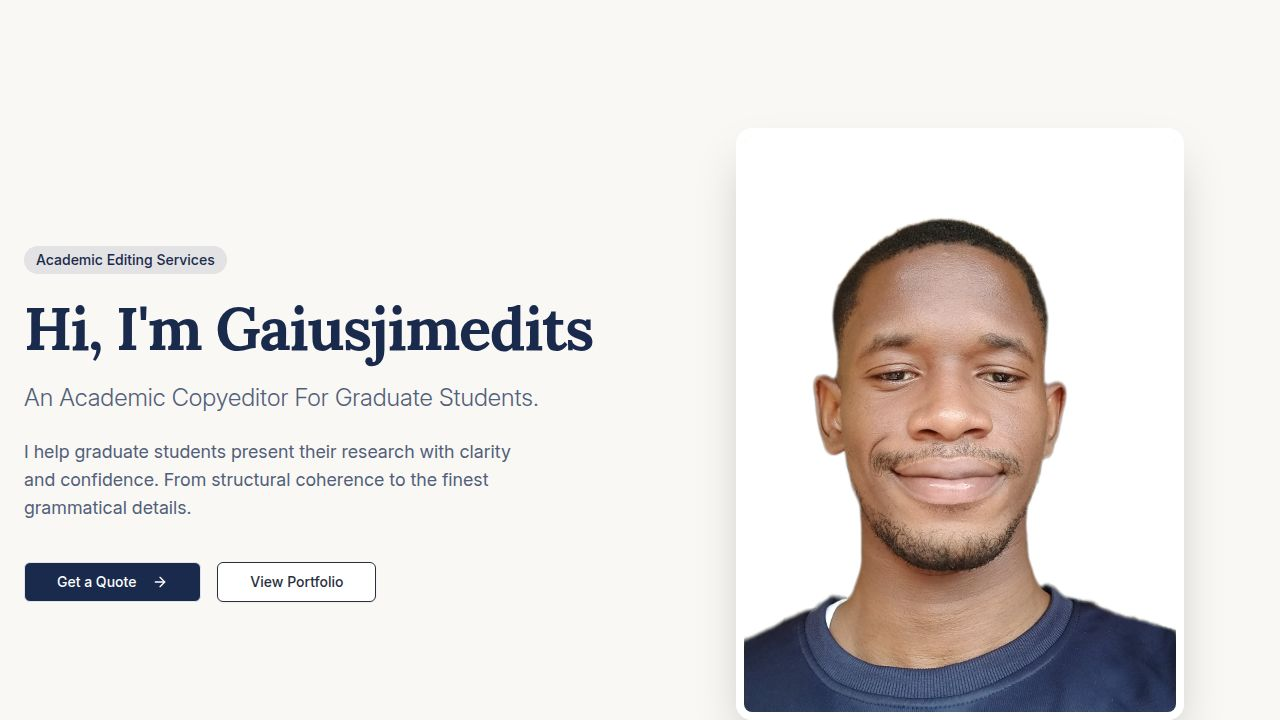
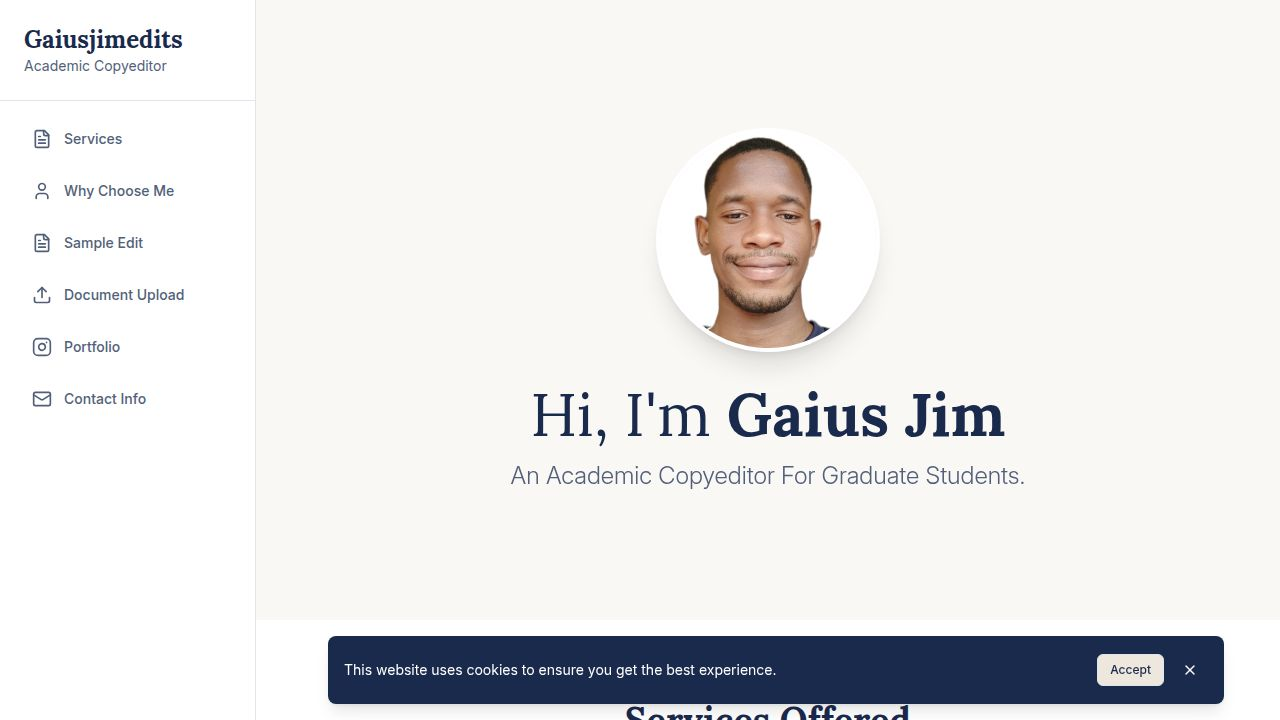
Update website with new hero image, contact form, and portfolio link
Replaces hero image in `hero.tsx`, updates portfolio link and section title in `portfolio.tsx`, modifies sidebar navigation and branding in `sidebar.tsx`, and adjusts content order in `home.tsx`.

Replit-Commit-Author: Agent
Replit-Commit-Session-Id: 56a94fab-71d1-4456-abf4-d811b467636b
Replit-Commit-Checkpoint-Type: full_checkpoint
Replit-Commit-Event-Id: 44c68f59-232e-4871-bdcd-e4b7319cfb65
Replit-Commit-Screenshot-Url: https://storage.googleapis.com/screenshot-production-us-central1/25380490-88ae-4bf0-86a6-6e2af1db7a43/56a94fab-71d1-4456-abf4-d811b467636b/8lZufJW
Replit-Helium-Checkpoint-Created: true

diff --git a/client/src/components/sidebar.tsx b/client/src/components/sidebar.tsx
@@ -10,7 +10,7 @@ const navItems = [
   { label: "Why Choose Me", href: "/#why-choose", icon: User },
   { label: "Sample Edit", href: "/#comparison", icon: FileText },
   { label: "Document Upload", href: "/#contact", icon: Upload },
-  { label: "Portfolio", href: "https://www.instagram.com/gaiusjimedits?igsh=bXNldGY1YmJkOGdm", icon: Instagram, external: true },
+  { label: "Portfolio", href: "/#portfolio", icon: Instagram },
   { label: "Contact Info", href: "/#footer", icon: Mail },
 ];
 
@@ -19,14 +19,10 @@ export function Sidebar() {
   const [isMobileOpen, setIsMobileOpen] = useState(false);
 
   const NavLink = ({ item }: { item: typeof navItems[0] }) => {
-    const Component = item.external ? "a" : "a";
-    const props = item.external 
-      ? { href: item.href, target: "_blank", rel: "noopener noreferrer" }
-      : { href: item.href, onClick: () => setIsMobileOpen(false) };
-
     return (
-      <Component
-        {...props}
+      <a
+        href={item.href}
+        onClick={() => setIsMobileOpen(false)}
         className={cn(
           "flex items-center gap-3 px-4 py-3 text-sm font-medium rounded-md transition-colors",
           "hover:bg-primary/10 hover:text-primary",
@@ -35,7 +31,7 @@ export function Sidebar() {
       >
         <item.icon className="h-5 w-5" />
         {item.label}
-      </Component>
+      </a>
     );
   };
 
@@ -43,7 +39,7 @@ export function Sidebar() {
     <>
       {/* Mobile Header */}
       <div className="lg:hidden fixed top-0 left-0 right-0 h-16 border-b bg-background/80 backdrop-blur-md z-50 flex items-center justify-between px-4">
-        <span className="font-serif font-bold text-xl text-primary">Gaius Jim</span>
+        <span></span>
         <Sheet open={isMobileOpen} onOpenChange={setIsMobileOpen}>
           <SheetTrigger asChild>
             <Button variant="ghost" size="icon">
@@ -53,7 +49,7 @@ export function Sidebar() {
           <SheetContent side="left" className="w-[300px] sm:w-[400px] p-0">
             <div className="flex flex-col h-full bg-background border-r">
               <div className="p-6 border-b">
-                <h2 className="font-serif font-bold text-2xl text-primary">Gaius Jim</h2>
+                <h2 className="font-serif font-bold text-2xl text-primary">Gaiusjimedits</h2>
                 <p className="text-sm text-muted-foreground">Academic Copyeditor</p>
               </div>
               <nav className="flex-1 p-4 space-y-2">
@@ -71,7 +67,7 @@ export function Sidebar() {
         <div className="p-6 border-b">
           <Link href="/">
             <a className="block">
-              <h2 className="font-serif font-bold text-2xl text-primary">Gaius Jim</h2>
+              <h2 className="font-serif font-bold text-2xl text-primary">Gaiusjimedits</h2>
               <p className="text-sm text-muted-foreground">Academic Copyeditor</p>
             </a>
           </Link>
@@ -81,9 +77,6 @@ export function Sidebar() {
             <NavLink key={item.label} item={item} />
           ))}
         </nav>
-        <div className="p-4 border-t text-xs text-muted-foreground text-center">
-          &copy; {new Date().getFullYear()} Gaius Jim
-        </div>
       </div>
     </>
   );

diff --git a/client/src/components/portfolio.tsx b/client/src/components/portfolio.tsx
@@ -10,12 +10,12 @@ const portfolioImages = [
 
 export function Portfolio() {
   return (
-    <section className="py-20 bg-background">
+    <section className="py-20 bg-background" id="portfolio">
       <div className="container mx-auto px-4 md:px-6">
         <div className="flex flex-col md:flex-row justify-between items-end mb-12 gap-4">
           <div>
             <h2 className="text-3xl font-bold text-primary mb-2">Portfolio Highlights</h2>
-            <p className="text-muted-foreground">Recent work and client success stories.</p>
+            <p className="text-muted-foreground">Recent work and content</p>
           </div>
           <Button variant="outline" className="gap-2" asChild>
             <a href="https://www.instagram.com/gaiusjimedits?igsh=bXNldGY1YmJkOGdm" target="_blank" rel="noopener noreferrer">

diff --git a/client/src/components/hero.tsx b/client/src/components/hero.tsx
@@ -1,4 +1,5 @@
 import { motion } from "framer-motion";
+import heroImage from "@assets/picture_1765954980181.png";
 
 export function Hero() {
   return (
@@ -13,12 +14,9 @@ export function Hero() {
           >
             <div className="w-48 h-48 md:w-56 md:h-56 rounded-full overflow-hidden border-4 border-white shadow-xl mx-auto bg-muted">
               <img 
-                src="https://images.unsplash.com/photo-1507003211169-0a1dd7228f2d?w=800&auto=format&fit=crop&q=60" 
+                src={heroImage}
                 alt="Gaius Jim"
                 className="w-full h-full object-cover"
-                onError={(e) => {
-                  (e.target as HTMLImageElement).src = "https://placehold.co/400x400/png?text=GJ";
-                }}
               />
             </div>
           </motion.div>

diff --git a/client/src/pages/home.tsx b/client/src/pages/home.tsx
@@ -23,8 +23,8 @@ export default function Home() {
         <div id="comparison">
           <Comparison />
         </div>
-        <Portfolio />
         <ContactForm />
+        <Portfolio />
         <Footer />
         <CookieBanner />
       </main>
